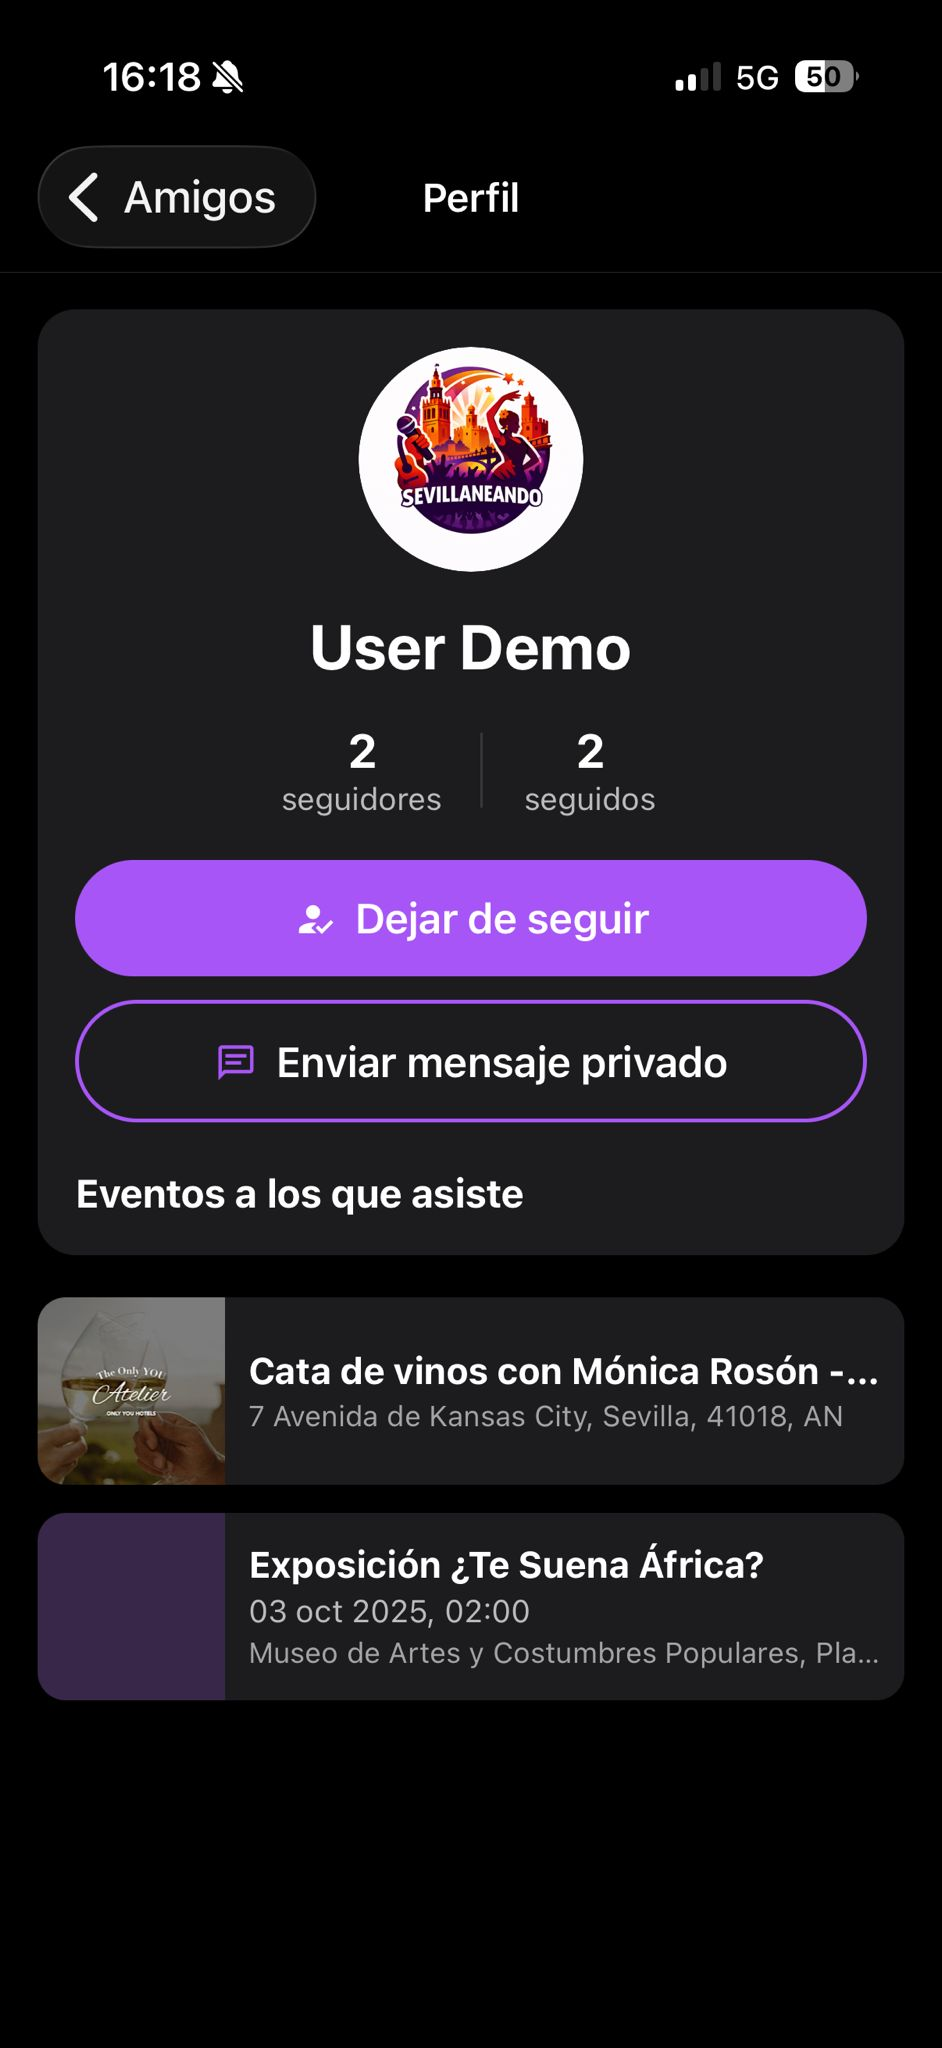
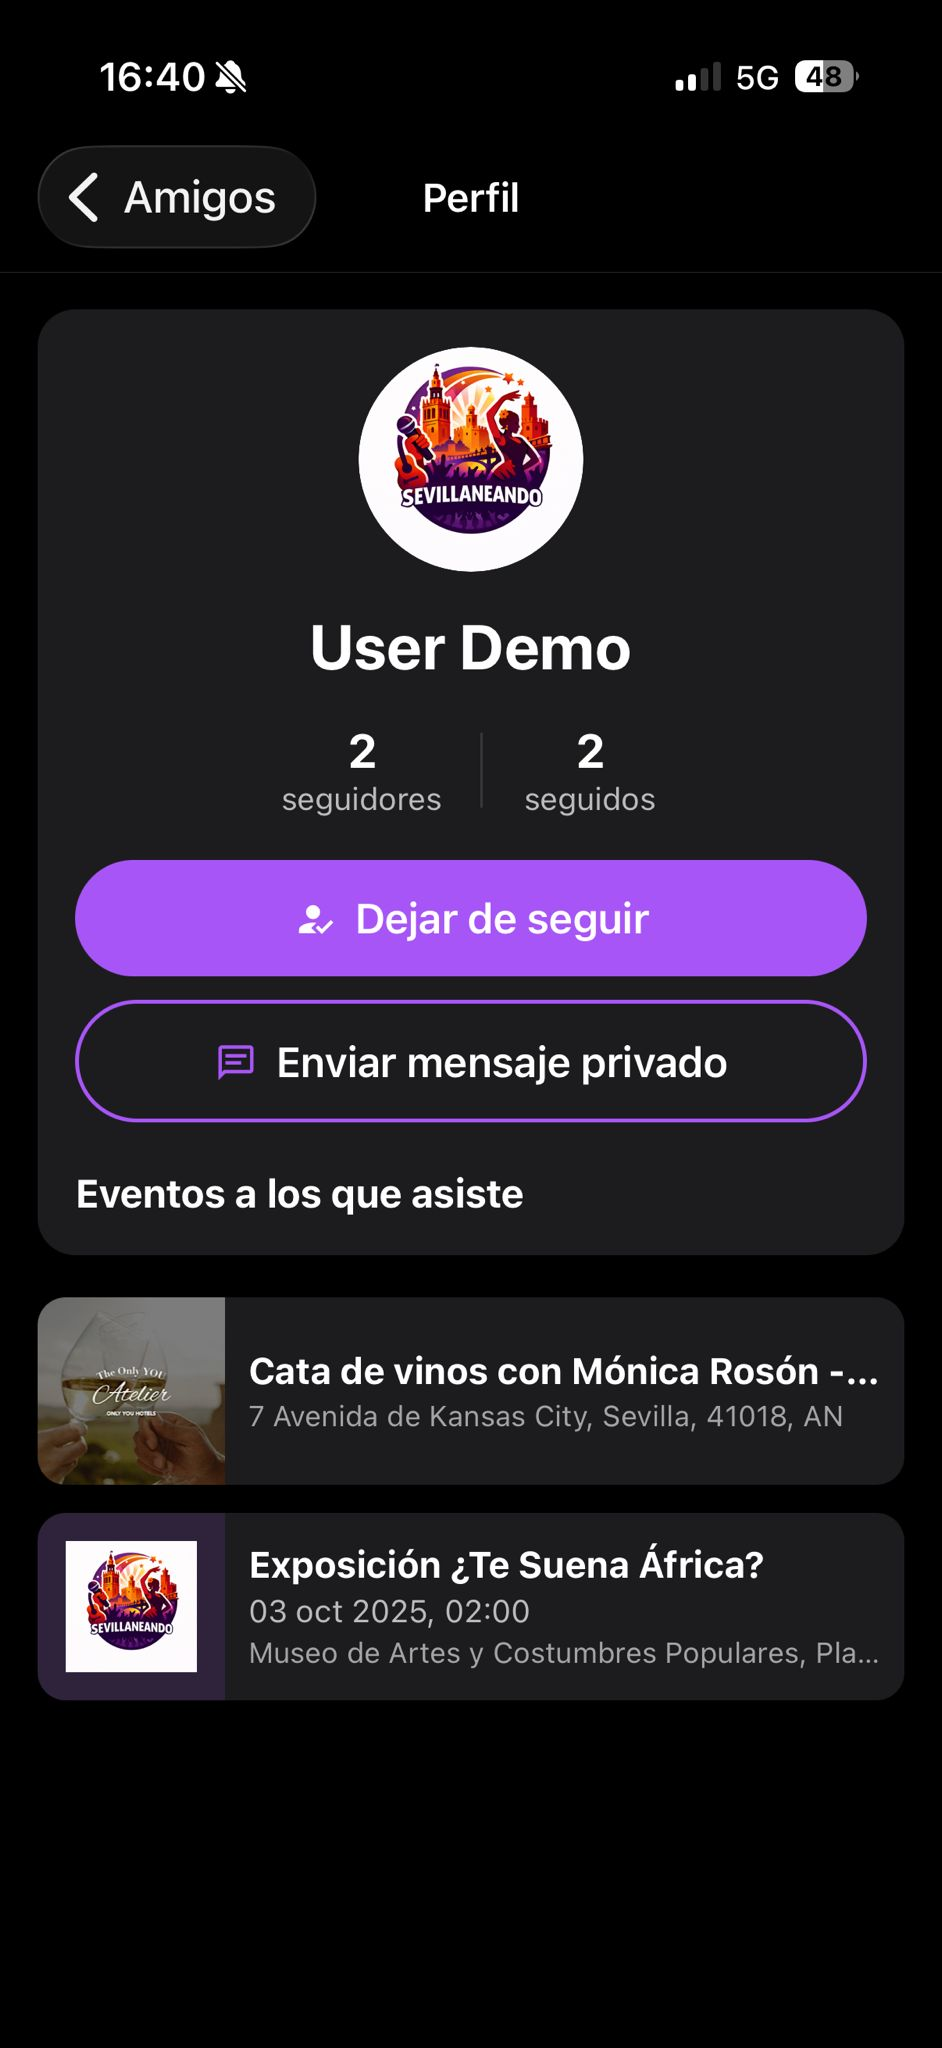
fix: :bug: errores de lint

Changed region(s): [[0.0616, 0.75, 0.2155, 0.8438], [0.0924, 0.0312, 0.2771, 0.0625], [0.862, 0.0312, 0.8928, 0.0625]]

diff --git a/sevillaneando/apps/frontend/src/react-native-vector-icons.d.ts b/sevillaneando/apps/frontend/src/react-native-vector-icons.d.ts
@@ -23,3 +23,16 @@ declare module 'react-native-vector-icons/MaterialCommunityIcons' {
   const MaterialCommunityIcons: ComponentType<MaterialCommunityIconsProps>;
   export default MaterialCommunityIcons;
 }
+
+declare module 'react-native-vector-icons/Ionicons' {
+  import { ComponentType } from 'react';
+  import { ViewStyle } from 'react-native';
+  interface IoniconsProps {
+    name: string;
+    size?: number;
+    color?: string;
+    style?: ViewStyle;
+  }
+  const Ionicons: ComponentType<IoniconsProps>;
+  export default Ionicons;
+}

diff --git a/sevillaneando/apps/frontend/src/screens/SavedAndPrivateEventsScreen.tsx b/sevillaneando/apps/frontend/src/screens/SavedAndPrivateEventsScreen.tsx
@@ -255,7 +255,7 @@ export const SavedAndPrivateEventsScreen: React.FC<Props> = ({ navigation, route
             : false;
           return renderEventCard(
             `${title}-${event.id}`,
-            event.imagen,
+            event.imagen ?? undefined,
             event.title,
             event.address,
             event.fechaInicio,